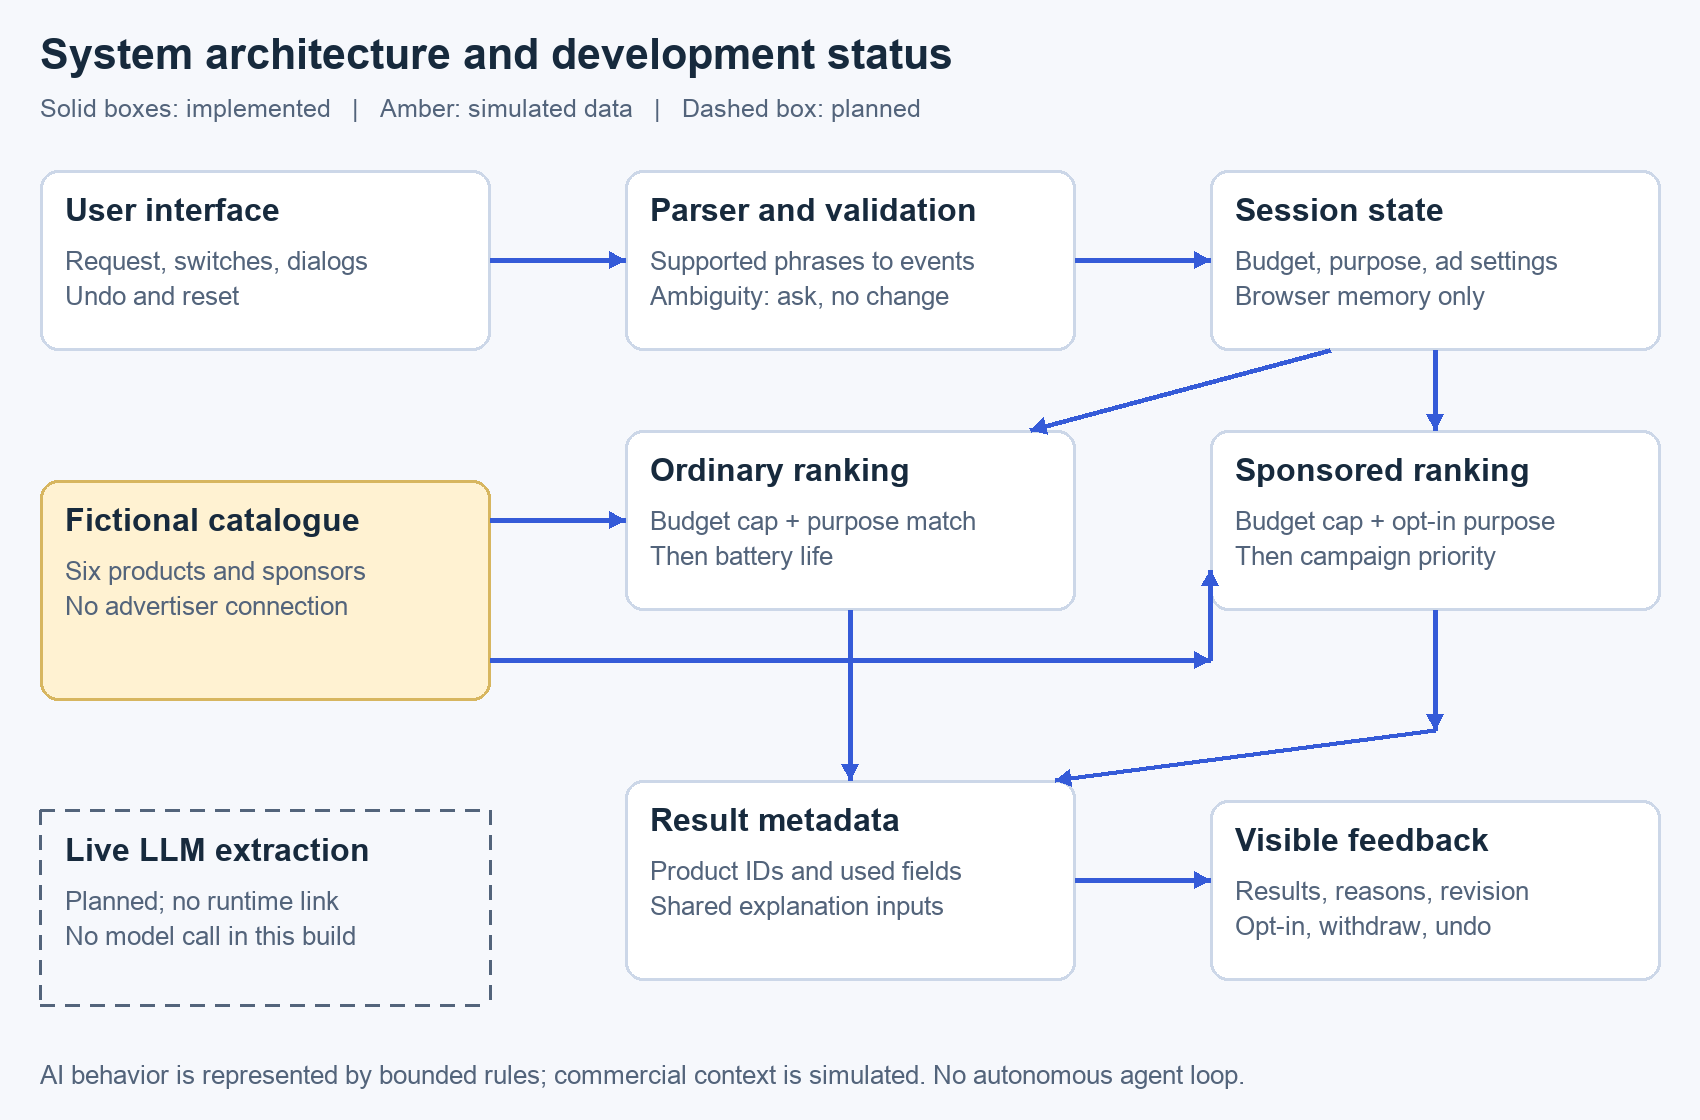
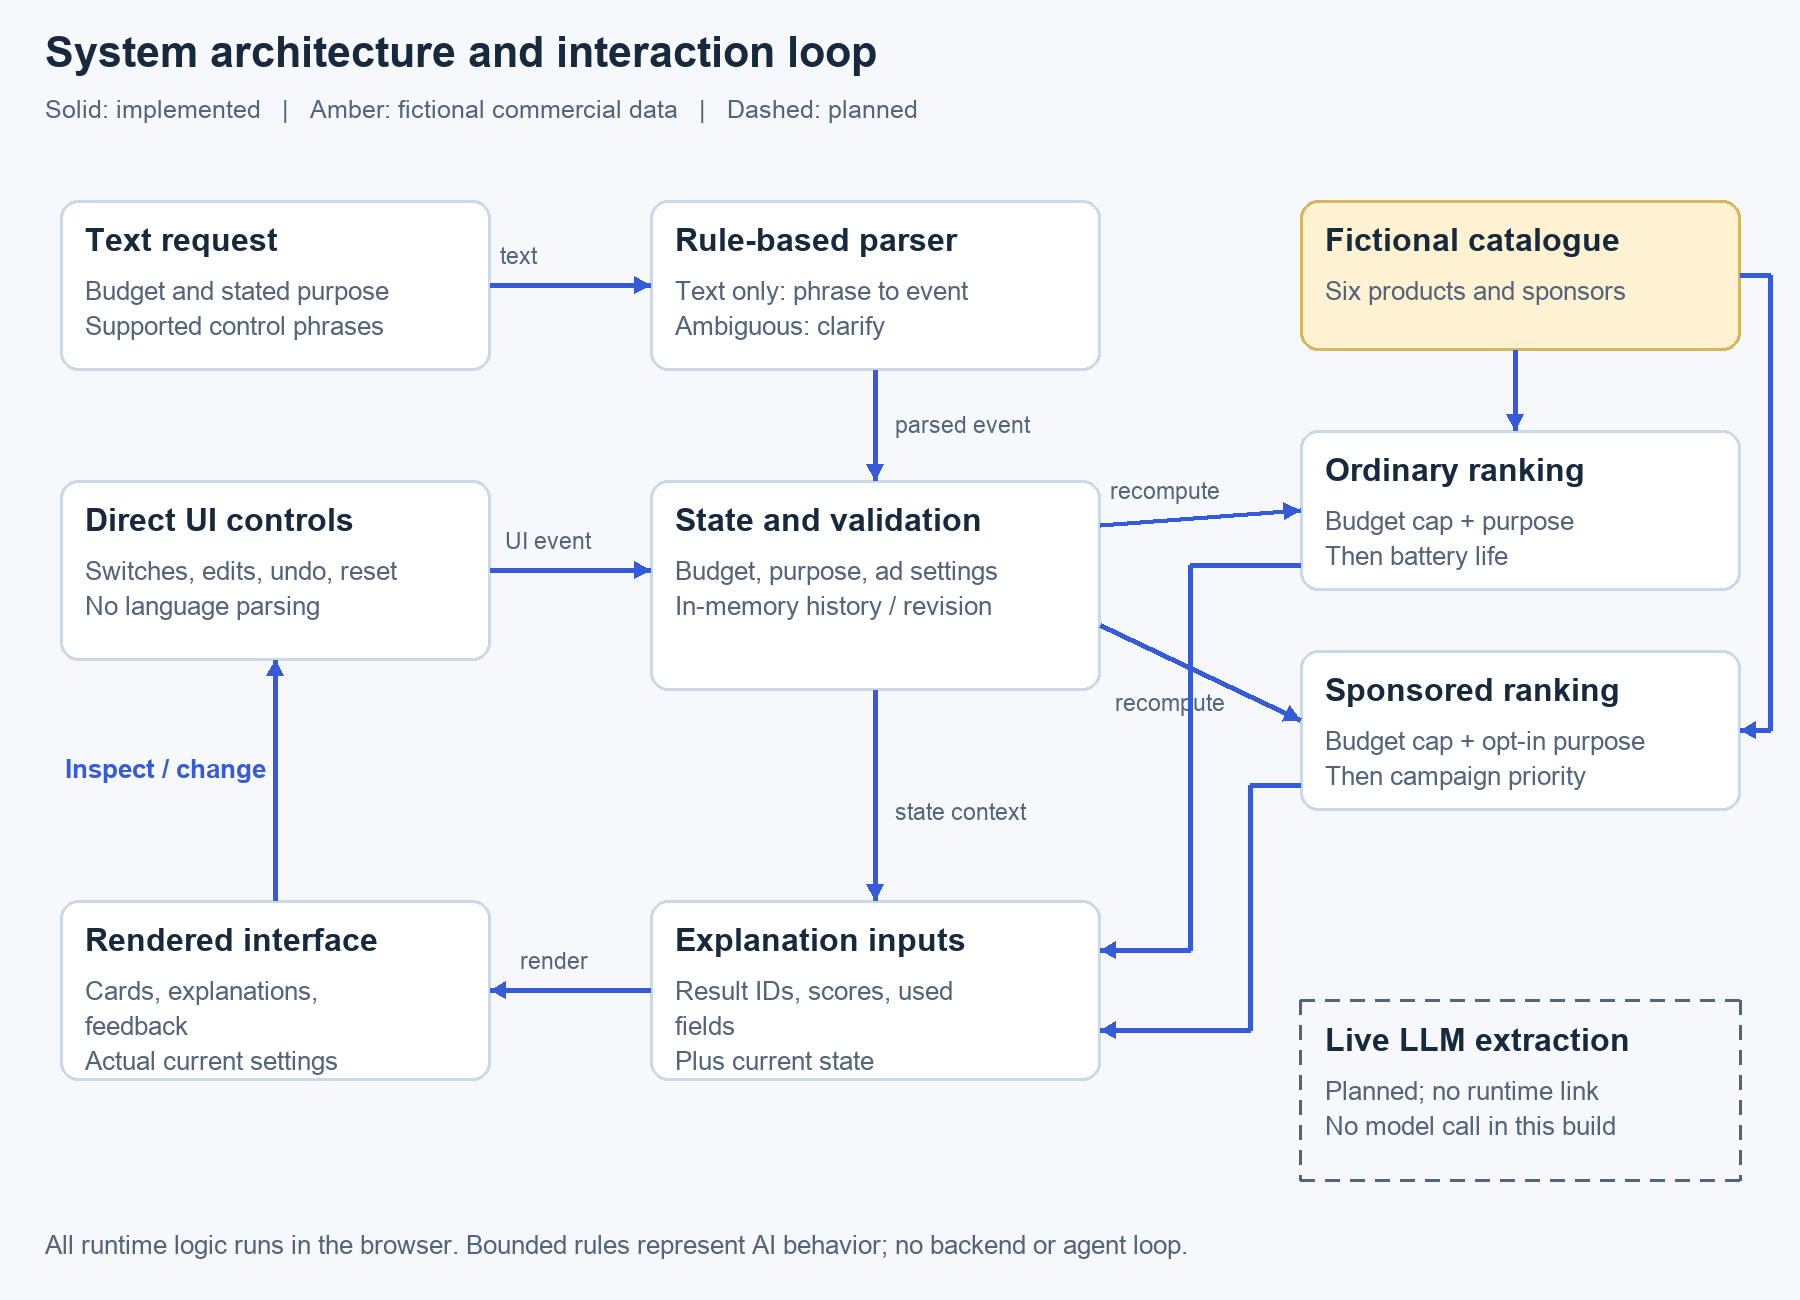
Strengthen A2 rationale, control-flow diagram and observed interaction evidence

Changed region(s): [[0.0, 0.0312, 0.9976, 0.875], [0.0312, 0.9375, 0.7171, 0.9688], [0.9665, 0.8438, 0.9976, 0.875]]

diff --git a/README.md b/README.md
@@ -1,6 +1,6 @@
 # Clear Choice
 
-README prose word count: 589 (excluding headings, code and setup commands; approximate whitespace count).
+README prose word count: 741 (excluding headings, tables, code and setup commands; approximate whitespace count).
 
 An A2 prototype extending the A1 literature review on personalised advertising in AI conversations. It separates recognition of sponsorship, explanation of information use, and effective user control.
 
@@ -38,15 +38,31 @@ HTML/CSS, native JavaScript modules and browser memory only. The small parser re
 ## Development record and assistance
 The project developed from A1's distinction between sponsorship recognition, understanding personalisation and effective control. The prototype uses known fictional inputs and shared ranking metadata so these behaviors can be checked.
 
-Fifteen engine tests passed, covering opt-in, withdrawal, explanation-input consistency, ordinary-ranking invariance, ambiguous requests and budget limits. One initial failure was traced to a fixture that changed ordinary products while testing sponsor priorities; correcting the fixture retained the assertion. Browser checks confirmed explanation, withdrawal, hiding, undo, empty results, clarification, export and reset. These are functional checks, not a participant study or evidence of improved comprehension.
+Fifteen engine tests passed, covering opt-in, withdrawal, explanation-input consistency, ordinary-ranking invariance, ambiguous requests and budget limits. Browser checks confirmed explanation, withdrawal, hiding, undo, empty results, clarification, export and reset. These are functional checks, not a participant study or evidence of improved comprehension.
 
 Evidence: [actual exported session](docs/browser-session.json), [test output](docs/automated-test-output.txt), screenshots and diagrams under `docs/`, and [response to A1 feedback](docs/FEEDBACK_RESPONSE.md). The report includes verified course references. Significant decisions and checks are recorded here rather than in separate process documents.
+
+### Student walkthrough and design reflection
+The student reported observing two ordinary recommendations with a separate sponsored product below them after entering a £100 commuting request. Enabling purpose use changed the advertised product; withdrawing permission restored the original. Product names were not recorded in this personal check. The student chose to retain independent ordinary ranking because letting ad settings change ordinary recommendations would leave users uncertain whether advertising influenced them and could undermine trust. This is a personal observation and design rationale, not a participant-study result.
+
+### Design decisions and checks
+| Decision | Reason | Recorded check |
+| --- | --- | --- |
+| Separate ordinary and sponsored ranking | Make commercial influence recognisable and keep ordinary assistance independent of ad settings. | Hiding ads and changing sponsor priorities leave ordinary ordering unchanged. |
+| Keep budget as a hard cap | Withdrawing optional targeting must not permit unaffordable products. | Budget checks cover £1–£1,000 with purpose use on and off. |
+| Use a ten-point purpose bonus and fractional tie-breaks | Make a purpose match dominate secondary ranking factors in a small reproducible demo. | Fixed-catalogue tests check expected selections; weights are not claimed to be optimal. |
+| Generate explanations from execution metadata | Prevent reasons from naming information that the ranking did not use. | Explanation fields equal each result's recorded inputs. |
+
+Review/adaptation example: an initial test suggestion changed campaign priorities on ordinary products as well as sponsored products, so full-object equality failed for an irrelevant extra field. The fixture was narrowed to sponsored products; the assertion was retained. This is an observed correction in the development session, not a claim that every AI suggestion was accepted.
+
+Actual UI comparison: [purpose use enabled](docs/07-purpose-on.png) and [purpose use withdrawn](docs/08-purpose-withdrawn.png), captured from the running prototype. The report includes both states and the corrected control-flow diagram.
 
 ## AI assistance
 Specific uses of Codex included:
 
 - **JavaScript debugging and correction:** Codex assisted with identifying and correcting issues in parts of the JavaScript code and tests.
 - **Front-end styling and layout:** Codex assisted with HTML/CSS styling, interface layout and responsive presentation.
+- **Additional development assistance:** Codex also supported implementation drafts, tests, diagrams and report drafting. The fixture correction above provides a concrete example of checking and adapting generated output.
 
 All product facts are fictional.
 
